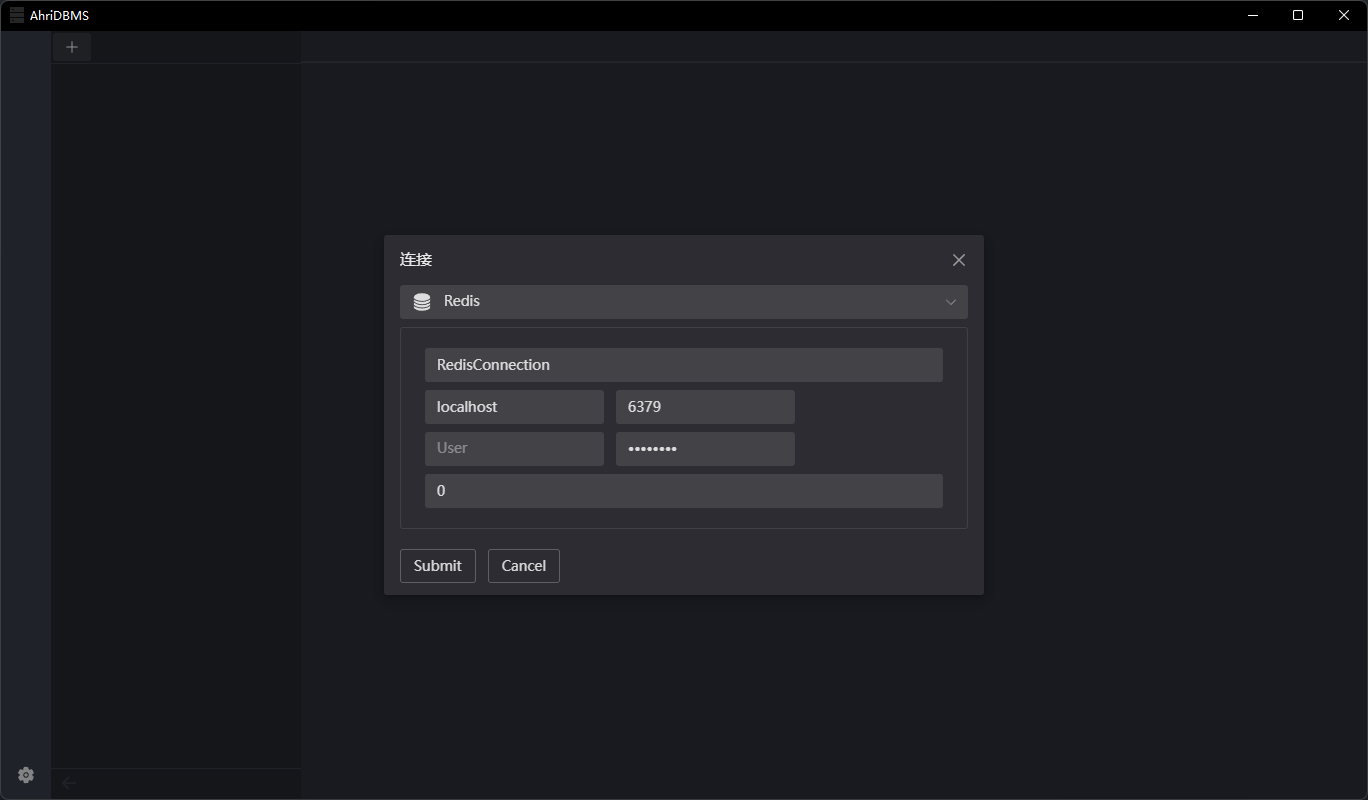
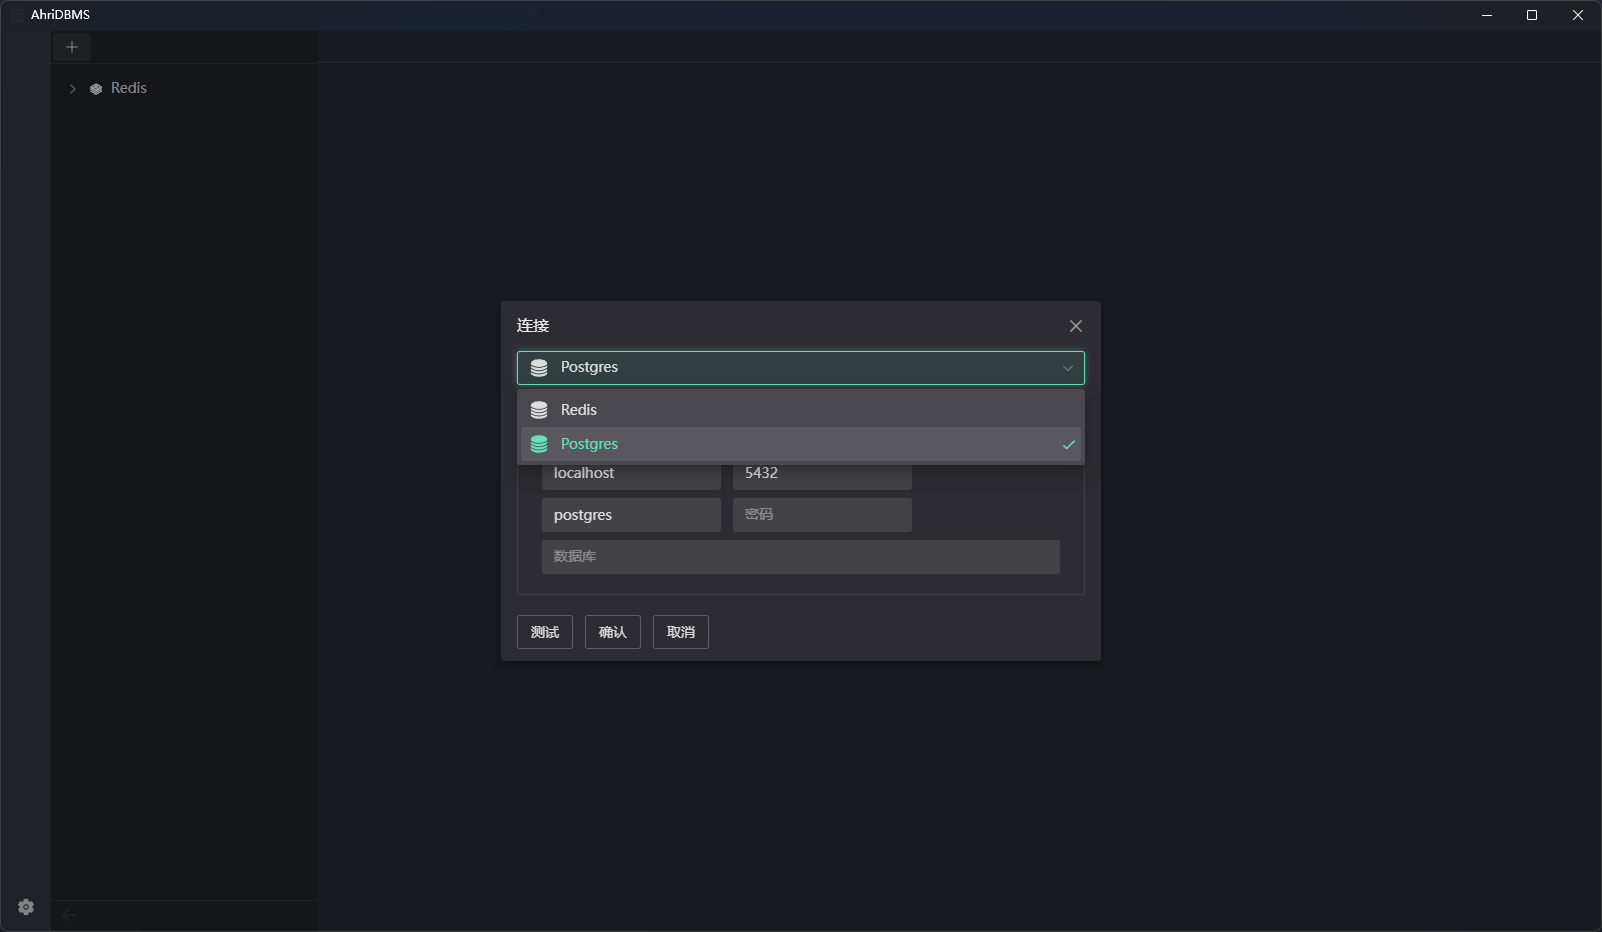
ahriknow

diff --git a/README.en.md b/README.en.md
@@ -4,9 +4,14 @@
 
 [Code Repository](https://git.ahriknow.com/ahriknow/ahridbms-client-rust)
 
-----
-Welcome to our new homepage [https://dbms.ahriknow.com/](https://dbms.ahriknow.com/)
-----
+# Download
+#### [Welcome to our new homepage https://dbms.ahriknow.com/](https://dbms.ahriknow.com/)
+
+#### Generate and show SHA256
+```cmd
+certutil -hashfile ${filepath} SHA256
+```
+# shortcut
 
 <div align=center>
 <img src="./screenshot/0.png" style="width: 200px; height: 120px">
@@ -20,10 +25,17 @@ Welcome to our new homepage [https://dbms.ahriknow.com/](https://dbms.ahriknow.c
 <div align=center>
 <img src="./screenshot/3.png" style="width: 500px; height: 300px">
 </div>
+<div align=center>
+<img src="./screenshot/4.png" style="width: 500px; height: 300px">
+</div>
+<div align=center>
+<img src="./screenshot/5.png" style="width: 500px; height: 300px">
+</div>
 
 # Features
 1. Support multiple databases (continuously updated...)
    - Redis
+   - Postgres
 2. Lightweight
 3. Syntax highlighting
 4. Syntax tips
@@ -44,8 +56,8 @@ Welcome to our new homepage [https://dbms.ahriknow.com/](https://dbms.ahriknow.c
 1. Support more languages
 2. Support more databases
    - [x] Redis
+   - [x] PostgreSQL
    - [ ] MongoDB
-   - [ ] PostgreSQL
    - [ ] MySQL
    - [ ] (Other undetermined...)
 3. More operations for database

diff --git a/README.md b/README.md
@@ -4,9 +4,14 @@
 
 [代码仓库](https://git.ahriknow.com/ahriknow/ahridbms-client-rust)
 
-----
-欢迎访问我们的网站 [https://dbms.ahriknow.com/](https://dbms.ahriknow.com/)
-----
+# 下载
+#### [欢迎访问我们的网站 https://dbms.ahriknow.com/](https://dbms.ahriknow.com/)
+
+#### 生成并显示文件 SHA256
+```cmd
+certutil -hashfile ${文件路径} SHA256
+```
+# 截图
 
 <div align=center>
 <img src="./screenshot/0.png" style="width: 200px; height: 120px">
@@ -20,10 +25,17 @@
 <div align=center>
 <img src="./screenshot/3.png" style="width: 500px; height: 300px">
 </div>
+<div align=center>
+<img src="./screenshot/4.png" style="width: 500px; height: 300px">
+</div>
+<div align=center>
+<img src="./screenshot/5.png" style="width: 500px; height: 300px">
+</div>
 
 # 功能特色
 1. 支持多种数据库 (持续更新中...)
-   1. Redis
+   - Redis
+   - Postgres
 2. 轻量级
 3. 语法高亮
 4. 语法提示
@@ -44,8 +56,8 @@
 1. 支持更多语言
 2. 支持更多数据库
    - [x] Redis
+   - [x] PostgreSQL
    - [ ] MongoDB
-   - [ ] PostgreSQL
    - [ ] MySQL
    - [ ] (其他未确定...)
 3. 数据库更多操作
